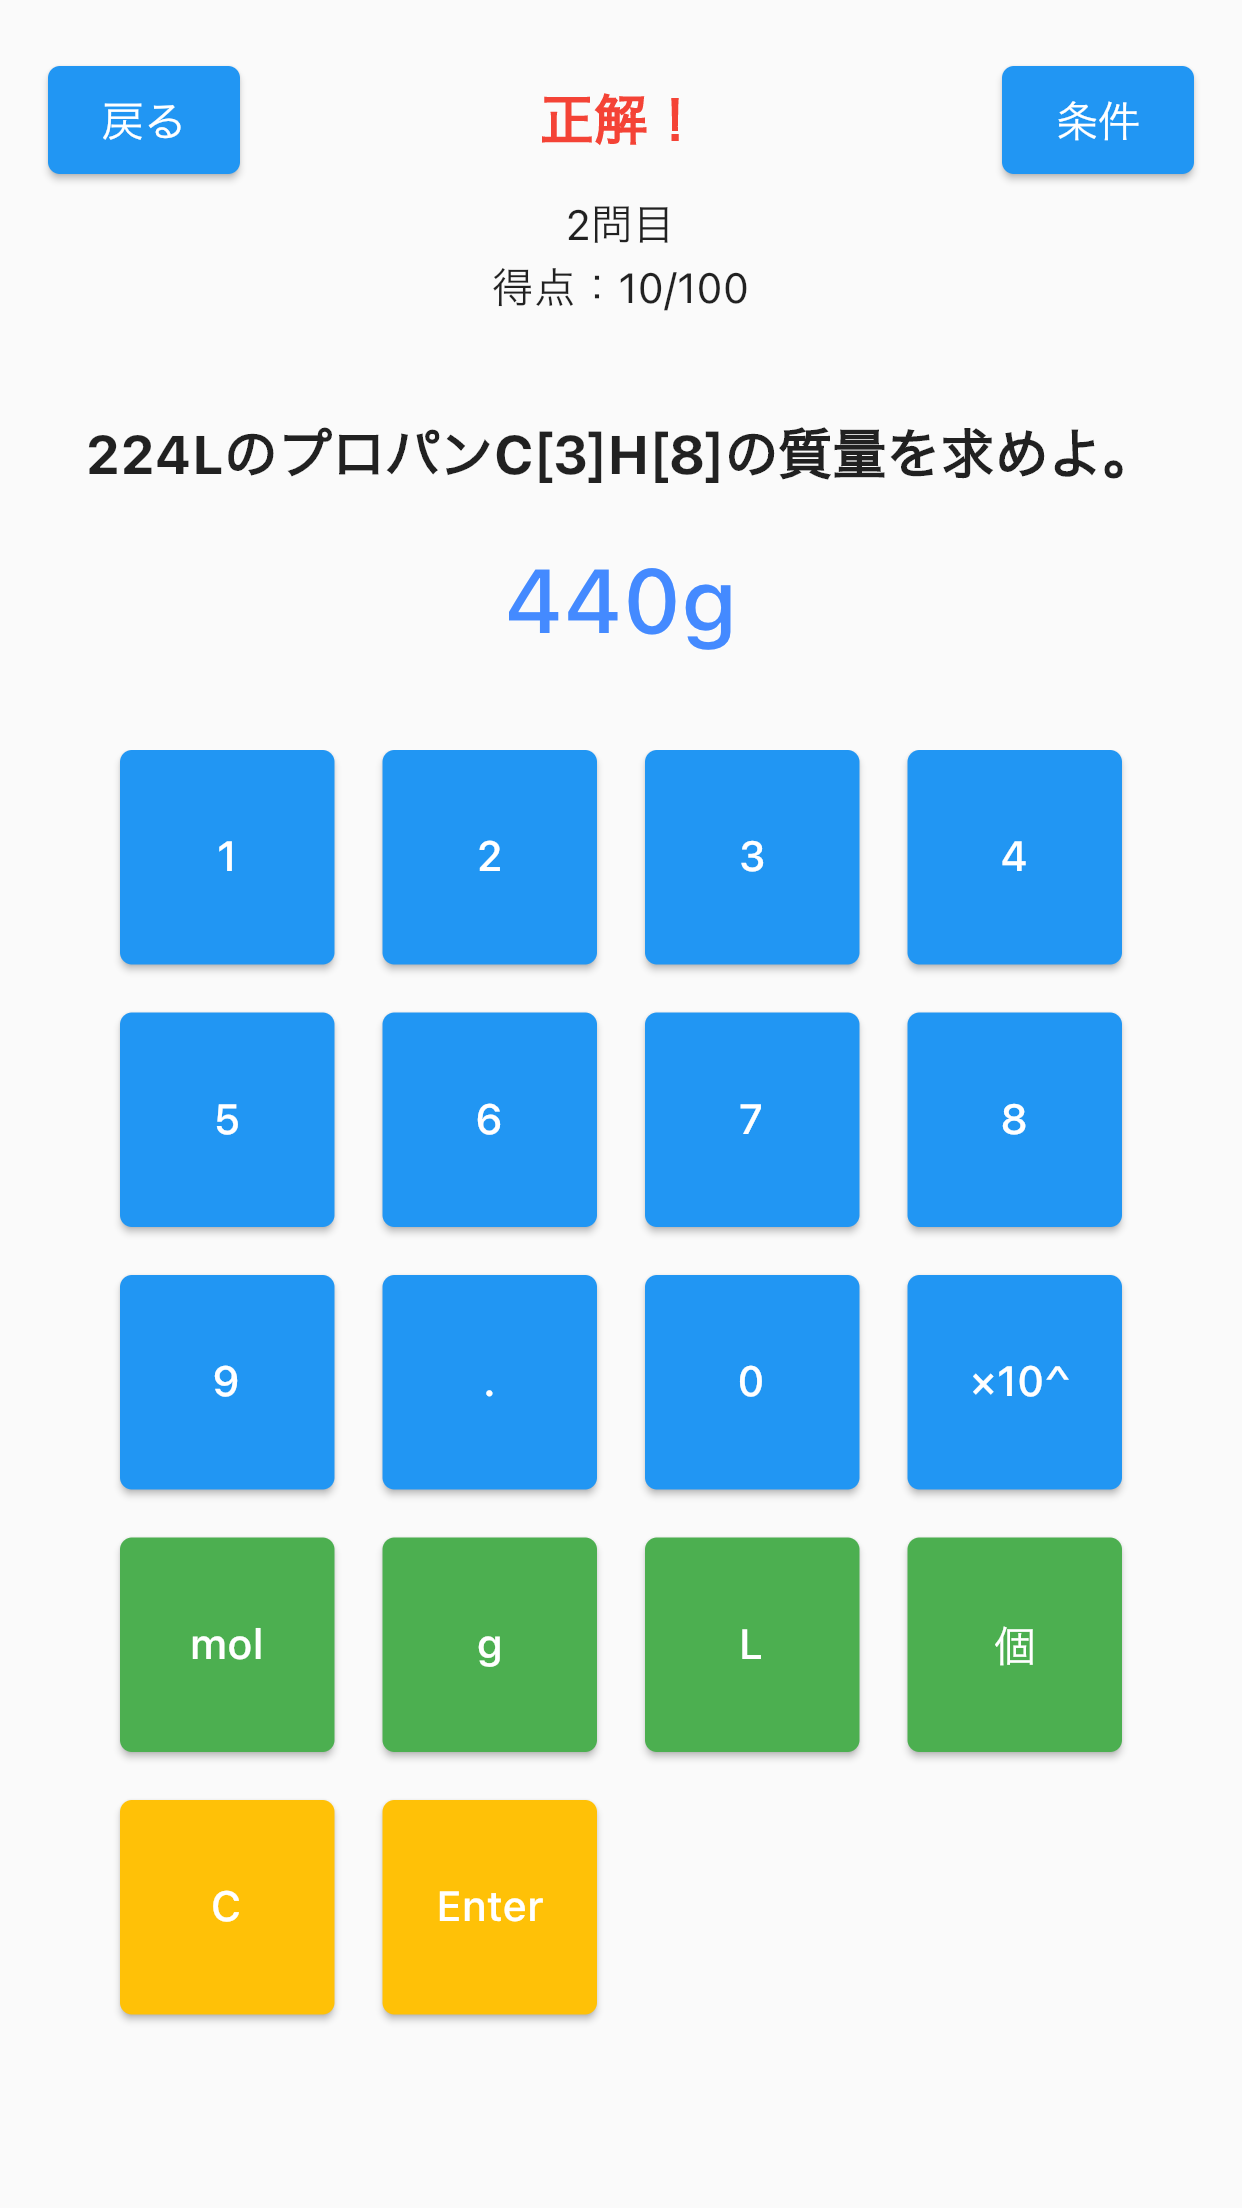
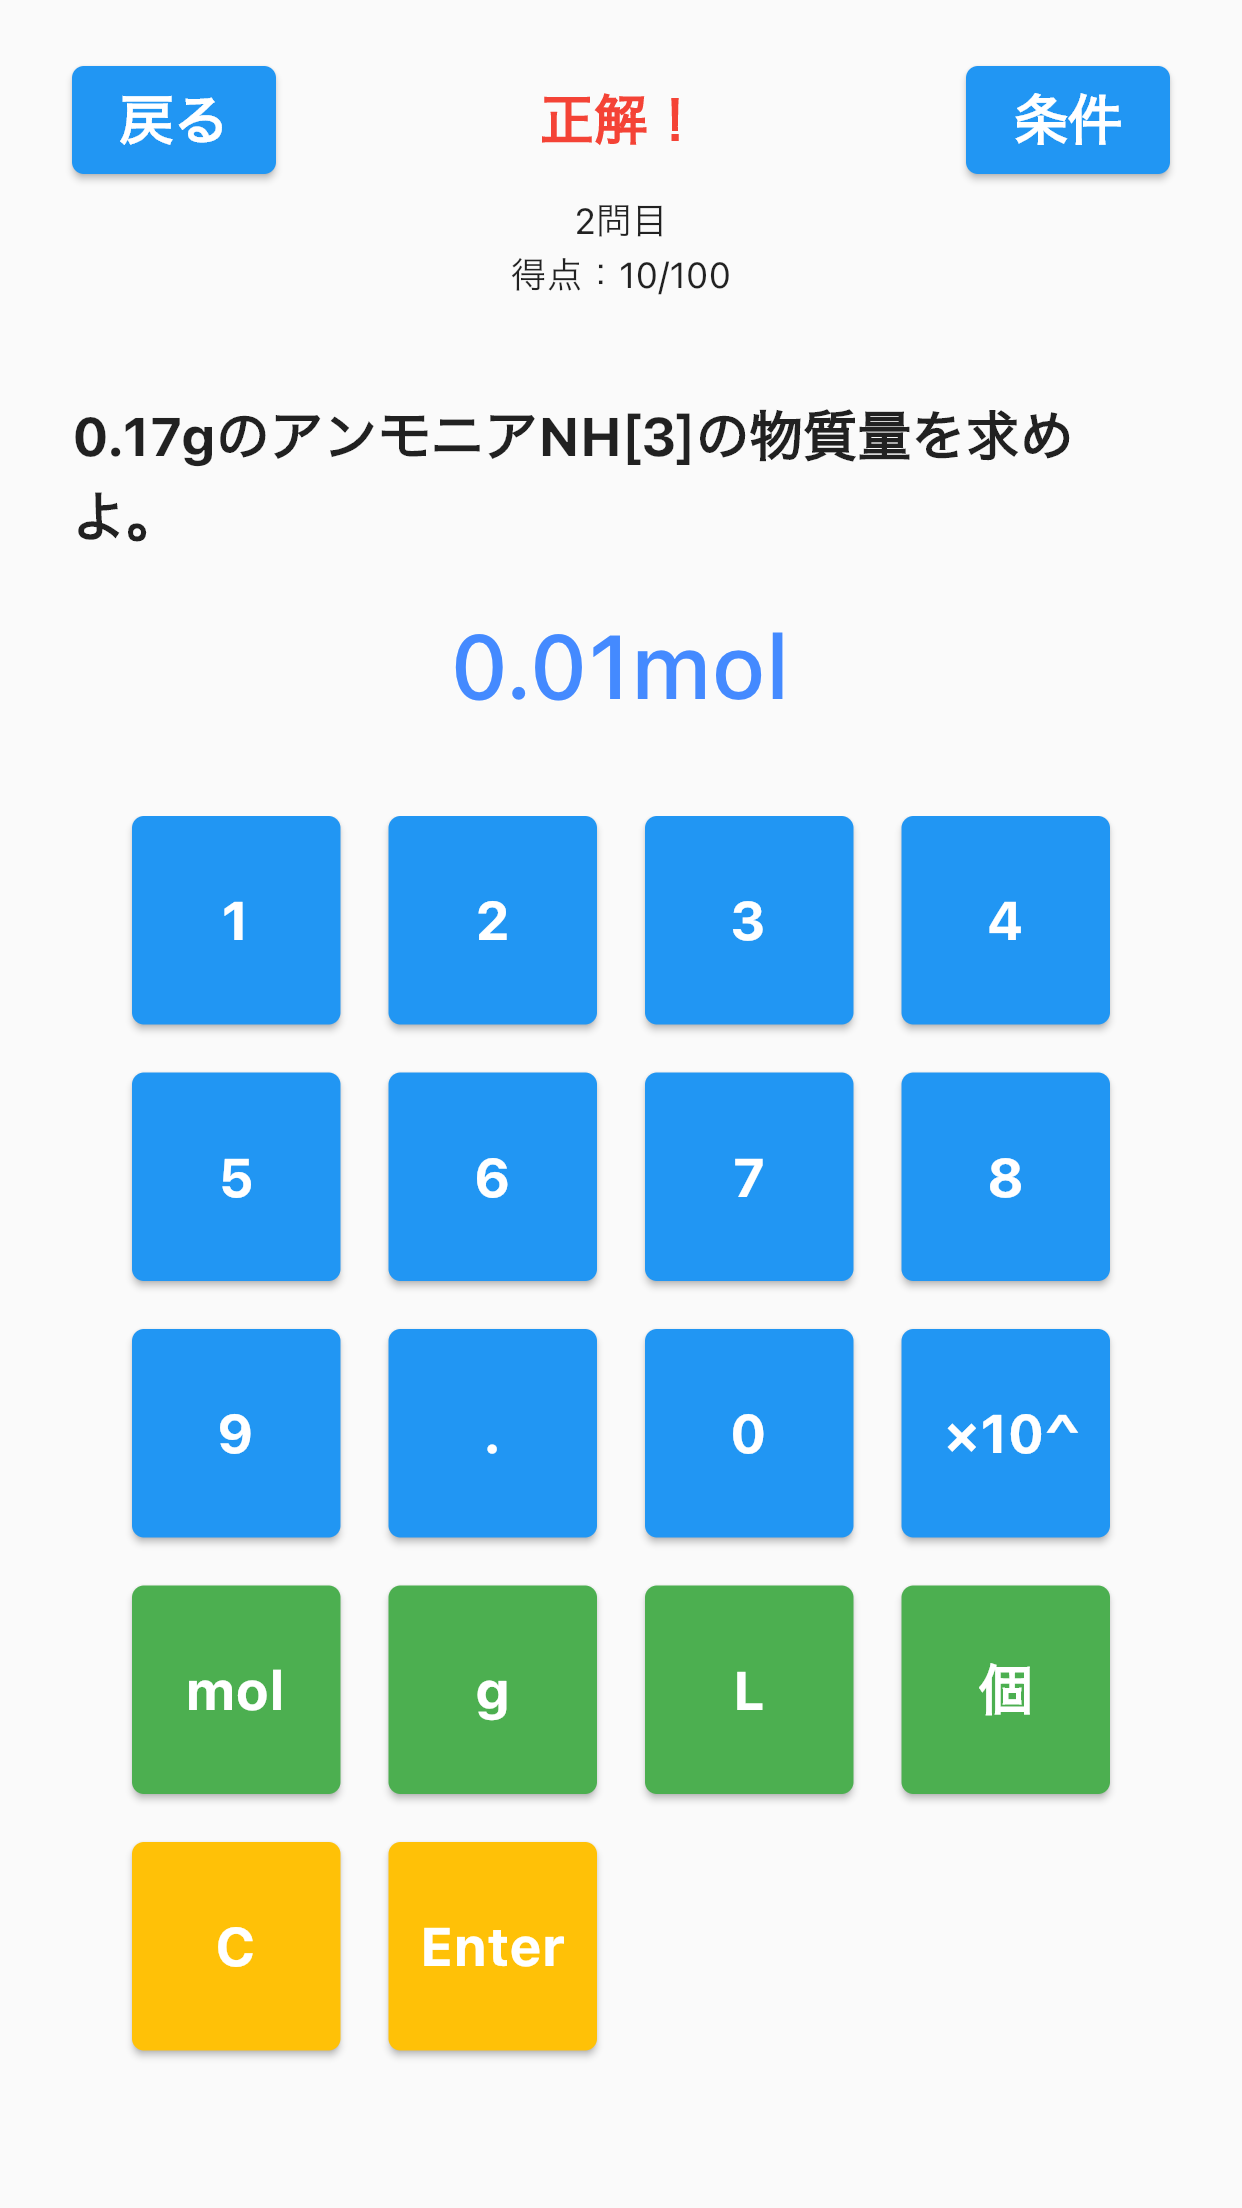
refactor: iPadのレスポンシブ対応

diff --git a/lib/game_page.dart b/lib/game_page.dart
@@ -51,7 +51,7 @@ class GameView extends HookWidget {
           child: Padding(
             padding: EdgeInsets.symmetric(
               vertical: isiPad ? 64 : 16,
-              horizontal: isiPad ? 200 : 24,
+              horizontal: isiPad ? 180 : 24,
             ),
             child: Column(
               children: [

diff --git a/lib/app_text_style.dart b/lib/app_text_style.dart
@@ -6,7 +6,7 @@ TextStyle appTextStyle({
   Color? color,
 }) {
   return TextStyle(
-    fontSize: isiPad ? 36 : fontSize,
+    fontSize: isiPad ? 28 : fontSize,
     fontWeight: FontWeight.bold,
     color: color,
   );
